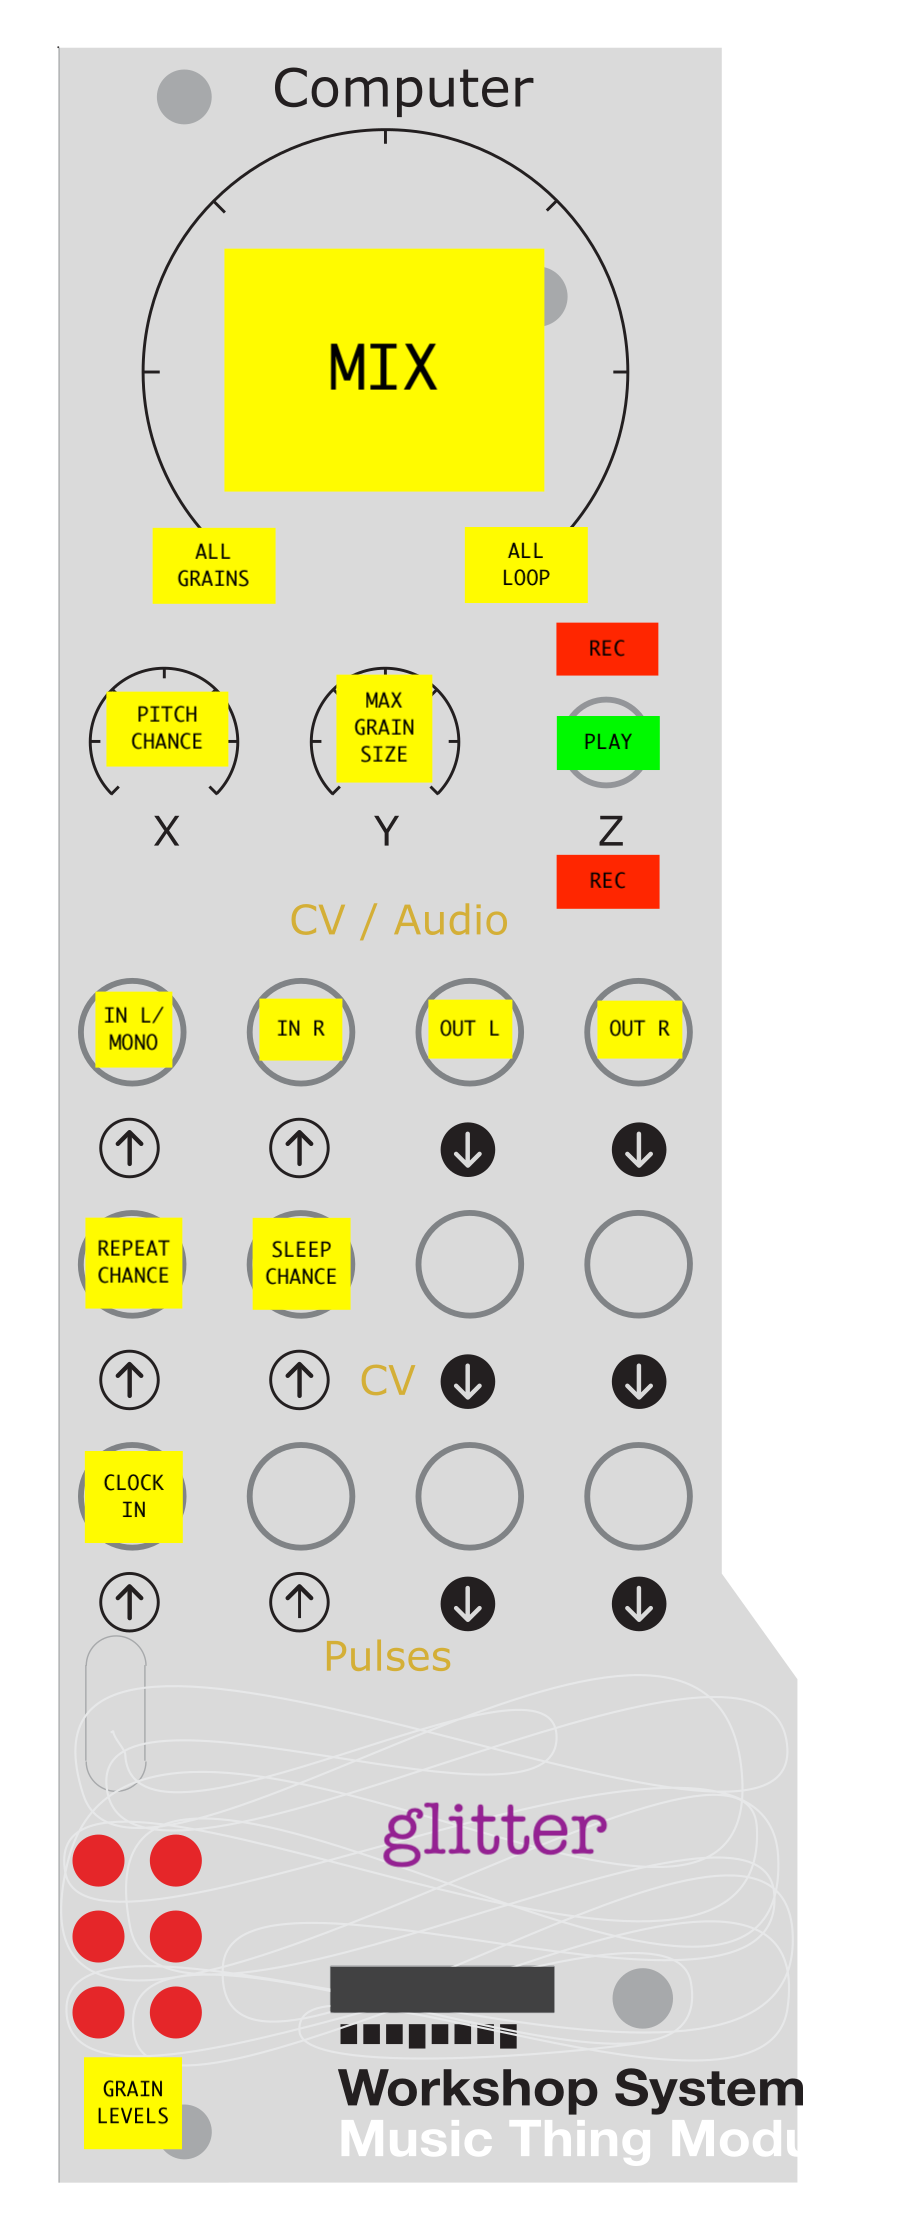
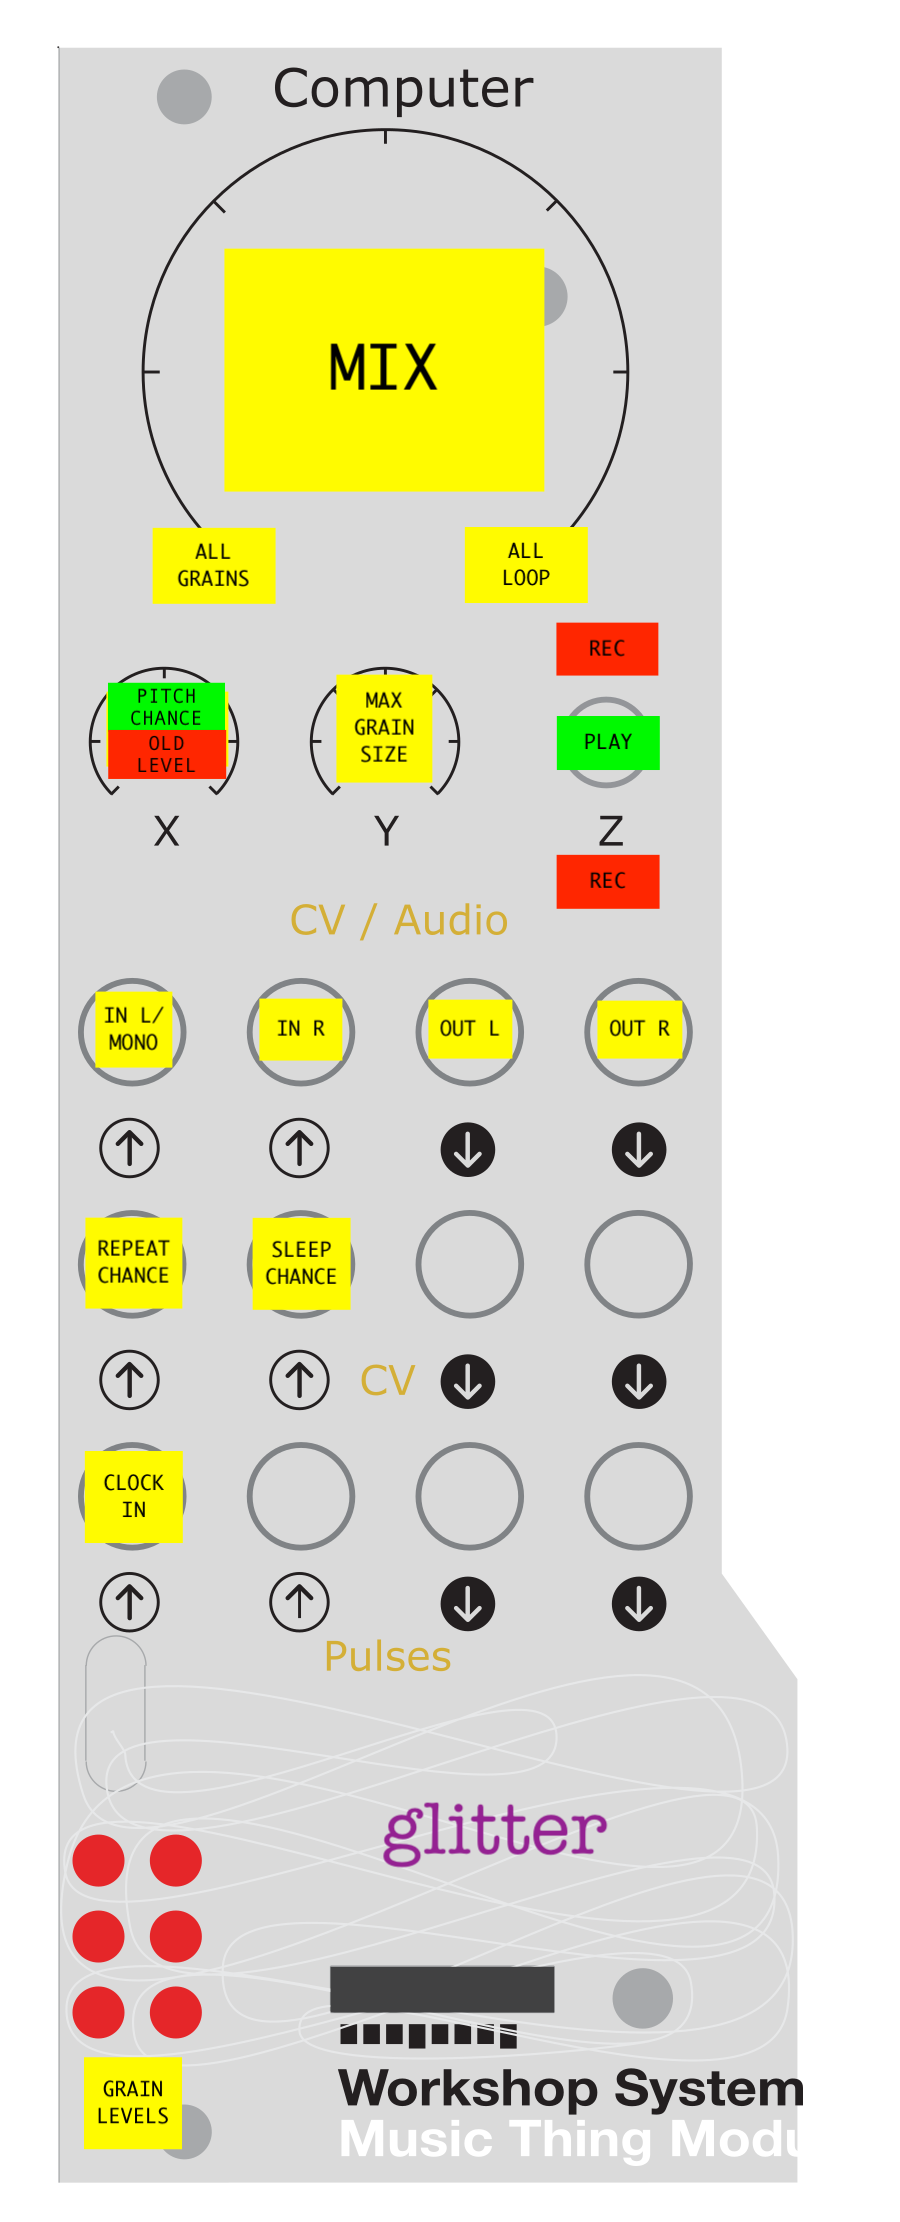
Increase clock speed.

Changed region(s): [[0.0933, 0.2795, 0.2489, 0.3726]]

diff --git a/53_glitter/main.cpp b/53_glitter/main.cpp
@@ -6,7 +6,7 @@ int main()
 	// In Pico SDK 2.1.1 we get a 200MHz clock through
 	// PICO_USE_FASTEST_SUPPORTED_CLOCK=1
 	// int the main CMakeLists.txt file.
-	set_sys_clock_khz(160000, true); // from Chris J Utility Pair
+	//set_sys_clock_khz(160000, true); // from Chris J Utility Pair
 	Glitter sh;
 	sh.EnableNormalisationProbe();
 	sh.Run();

diff --git a/53_glitter/README.md b/53_glitter/README.md
@@ -4,8 +4,9 @@ A two second sampler with stereo granulated playback for the Music Thing Modular
 
 ## Note
 
-Glitter runs at a 160MHz clock speed. Since Pico SDK 2.1.1 this is no longer considered to be overclocked
-but I thought the speed bump was worth pointing out.
+Glitter runs at a 200MHz clock speed. This is the maximum supported clock speed in Pico SDK 2.1.1 but in previous
+SDKs it would have been considered to be overclocked. If you want to run at a lower clock speed without clicks
+then you would need to reduce the maximum number of grains and rebuild the code
 
 ## Summary
 
@@ -37,10 +38,13 @@ NB. There is no dry or monitor output from glitter but you could patch that usin
 
 ---
 
-**X Knob**: Modify the chance of grains playing back an octave higher or an octave lower. Ranges from
+**X Knob (In Play)**: Modify the chance of grains playing back an octave higher or an octave lower. Ranges from
 zero chance (fully anti-clockwise) to maximum chance (fully clockwise). NB grains will only re-pitch 
 if they can safely do so without tripping over the write head, so at longer lengths there won't
 be as much re-pitching.
+
+**X Knob (In Record)**: Adjust the mix between existing signal and new signal. Fully anti-clockwise is all
+new signal, fully clockwise is all old signal.
 
 ---
 
